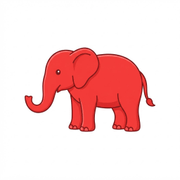
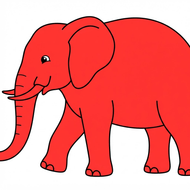
v1.6: gambar hewan full-bleed (menutup seluruh wajah dadu) + tumpukan dadu selalu di tengah layar

diff --git a/index.html b/index.html
@@ -11,7 +11,7 @@
     font-family: Arial, sans-serif;
     background: radial-gradient(ellipse at center, #1d6b3f 0%, #0e4a29 60%, #07301b 100%);
     color:#fff; display:flex; flex-direction:column; align-items:center;
-    min-height:100vh; user-select:none; padding:8px; overflow-x:hidden;
+    height:100vh; user-select:none; padding:8px; overflow-x:hidden;
   }
 
   #prediksi {
@@ -23,11 +23,13 @@
   #prediksi.show { display:flex; }
 
   /* dadu tersusun VERTIKAL seperti referensi */
+  body { height:100vh; }
   .meja {
-    margin:8px 0; width:100%;
-    display:flex; flex-direction:column; align-items:center; gap:10px;
-    padding:10px 0; min-height:80px;
+    margin:0; width:100%; flex:1 1 auto; min-height:0;
+    display:flex; flex-direction:column; align-items:center;
+    padding:6px 0; overflow-y:auto;
   }
+  .tumpuk { margin:auto 0; display:flex; flex-direction:column; align-items:center; gap:10px; }
   .dadu { width:66px; height:66px; position:relative; }
   .dadu .kubus { position:absolute; top:0; left:0; width:100%; height:100%; }
 
@@ -42,7 +44,7 @@
   .muka.angka { display:grid; grid-template-columns:repeat(3,1fr); grid-template-rows:repeat(3,1fr); padding:8px; }
   .muka.angka .p { border-radius:50%; background:#1a1a1a; align-self:center; justify-self:center; width:12px; height:12px; box-shadow: inset 0 1px 2px rgba(255,255,255,.35), inset 0 -1px 2px rgba(0,0,0,.5); }
   .muka.hewan { display:flex; align-items:center; justify-content:center; }
-  .muka.hewan img { width:72%; height:72%; }
+  .muka.hewan img { width:100%; height:100%; object-fit:cover; display:block; }
 
   /* mini dadu (ikon jumlah & prediksi) */
   .mini { width:26px; height:26px; border-radius:6px; position:relative;
@@ -52,7 +54,7 @@
   .mini.angka { display:grid; grid-template-columns:repeat(3,1fr); grid-template-rows:repeat(3,1fr); padding:3px; }
   .mini.angka .p { border-radius:50%; background:#1a1a1a; align-self:center; justify-self:center; width:4.5px; height:4.5px; }
   .mini.hewan { display:flex; align-items:center; justify-content:center; }
-  .mini.hewan img { width:82%; height:82%; }
+  .mini.hewan img { width:100%; height:100%; object-fit:cover; display:block; }
   .mini.sep { width:2px; height:22px; background:rgba(255,215,0,.4); border-radius:2px; flex:0 0 auto; }
 
   .ikonbar {
@@ -83,12 +85,12 @@
   @media (max-height:720px){
     .meja.padat .dadu { width:52px; height:52px; }
     .meja.padat .muka.angka { padding:6px; } .meja.padat .muka.angka .p { width:9px; height:9px; }
-    .meja { gap:8px; }
+    .meja .tumpuk { gap:8px; }
   }
   @media (max-height:620px){
     .dadu { width:52px; height:52px; }
     .muka.angka { padding:6px; } .muka.angka .p { width:9px; height:9px; }
-    .meja { gap:7px; }
+    .meja .tumpuk { gap:7px; }
   }
 </style>
 </head>
@@ -208,9 +210,11 @@
   function renderMeja(){
     meja.innerHTML='';
     meja.classList.toggle('padat', state.jumlah>=5);
+    var t = document.createElement('div'); t.className='tumpuk';
     var i;
-    for(i=0;i<state.jumlah;i++) meja.appendChild(makeDadu('angka', 6));
-    meja.appendChild(makeDadu('hewan', 5));   // hewan "diam di 6"
+    for(i=0;i<state.jumlah;i++) t.appendChild(makeDadu('angka', 6));
+    t.appendChild(makeDadu('hewan', 5));   // hewan "diam di 6"
+    meja.appendChild(t);
     renderJmlIkon();
   }
   function renderJmlIkon(){
